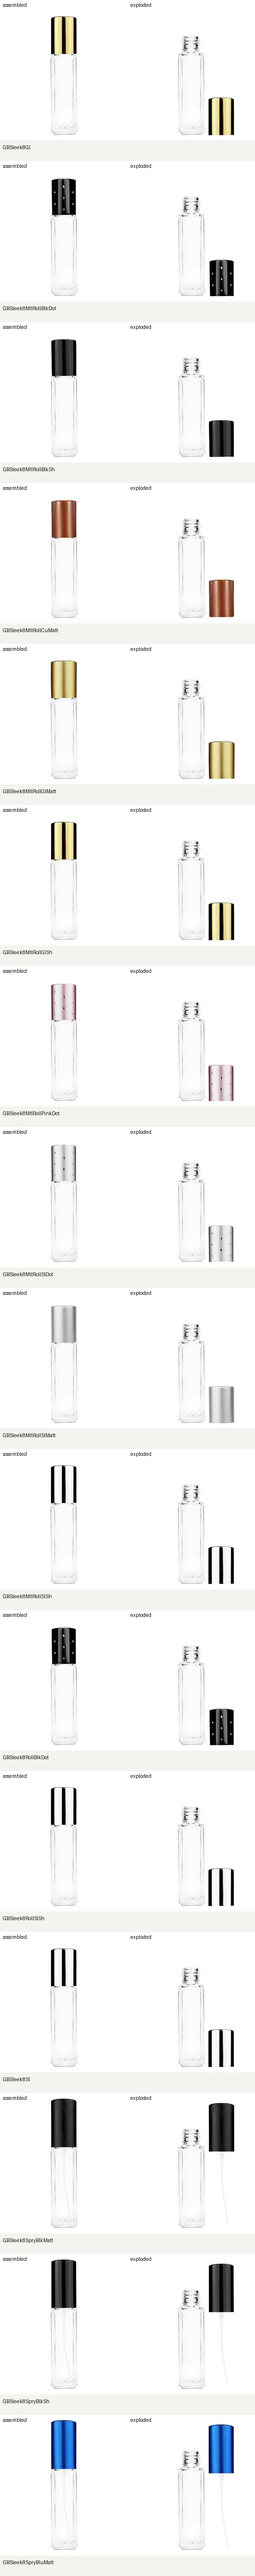
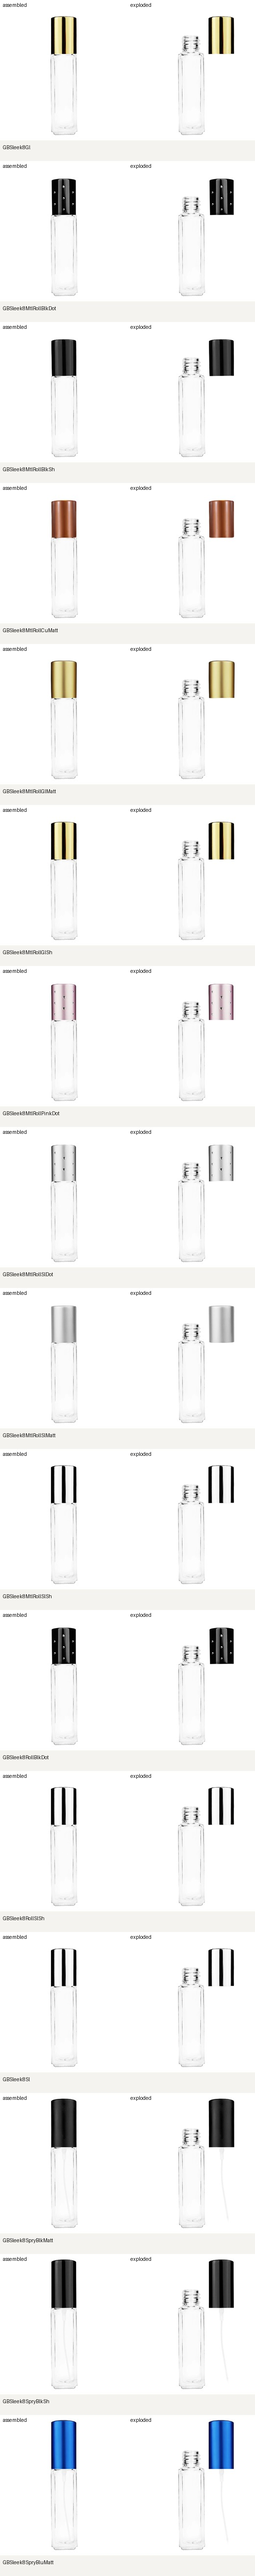
Align exploded caps to their source seat height

Changed region(s): [[0.8, 0.0, 0.9231, 0.8438], [0.8308, 0.9375, 0.9231, 0.9688], [0.8308, 0.875, 0.8923, 0.9062]]

diff --git a/scripts/paperdoll/build_master_kits.py b/scripts/paperdoll/build_master_kits.py
@@ -102,7 +102,11 @@ def place_exploded(parts):
         # beside the bottle on the shared baseline, as in the catalog heroes.
         if len(movable)!=1:
             raise ValueError(f"{part['slot']} exploded bounds would leave the frame; explicit spacing review required")
-        baseline_dy=body['bounds']['bottom']-part['bounds']['bottom']
+        # Preserve the source assembly's vertical registration. The exploded
+        # view moves hardware sideways only, so a cap's lower edge continues
+        # to show its true shoulder/seat height and does not imply a lower swap
+        # position.
+        baseline_dy=0
         right_dx=body['bounds']['right']+24-part['bounds']['left']
         left_dx=body['bounds']['left']-24-part['bounds']['right']
         if part['bounds']['right']+right_dx<=992:

diff --git a/scripts/paperdoll/tests/test_master_kits.py b/scripts/paperdoll/tests/test_master_kits.py
@@ -28,7 +28,8 @@ class MasterKitTests(unittest.TestCase):
                  {"slot": "cap", "bounds": {"left": 399, "top": 122, "right": 602, "bottom": 425}, "explodeIndex": 1}]
         place_exploded(parts)
         self.assertEqual(parts[1]["bounds"]["left"] + parts[1]["exploded"]["dx"], 634)
-        self.assertEqual(parts[1]["bounds"]["bottom"] + parts[1]["exploded"]["dy"], 1061)
+        self.assertEqual(parts[1]["exploded"]["dy"], 0)
+        self.assertEqual(parts[1]["bounds"]["bottom"] + parts[1]["exploded"]["dy"], 425)
 
     def test_exploded_part_that_would_clip_is_rejected(self):
         parts = [{"slot": "body", "bounds": {"left": 100, "top": 100, "right": 900, "bottom": 1060}, "explodeIndex": 0},

diff --git a/docs/reviews/catalog-layer-mapping-2026-09-08/README.md b/docs/reviews/catalog-layer-mapping-2026-09-08/README.md
@@ -7,11 +7,11 @@ assignments. It is a preparation and review artifact; it does not publish kits.
 
 - Applicable master-PSD batch: 89 rows
 - Explicit mappings recorded: 83
-- Safe local candidates: 48
-- Held for targeted remediation: 41
+- Safe local candidates: 50
+- Held for targeted remediation: 39
 - Rows still classified as generic layer mapping: 0
 
-The 41 targeted holds consist of 27 alpha-edge repairs, eight exploded-layout
+The 39 targeted holds consist of 27 alpha-edge repairs, six exploded-layout
 repairs, three hidden-layer reviews, and three non-pixel-layer reviews. Complete
 vintage bulb assemblies retain the photographed dip tube, sprayer, hose, bulb,
 and tassel together as one fitment. Lotion and standard spray hardware are also
